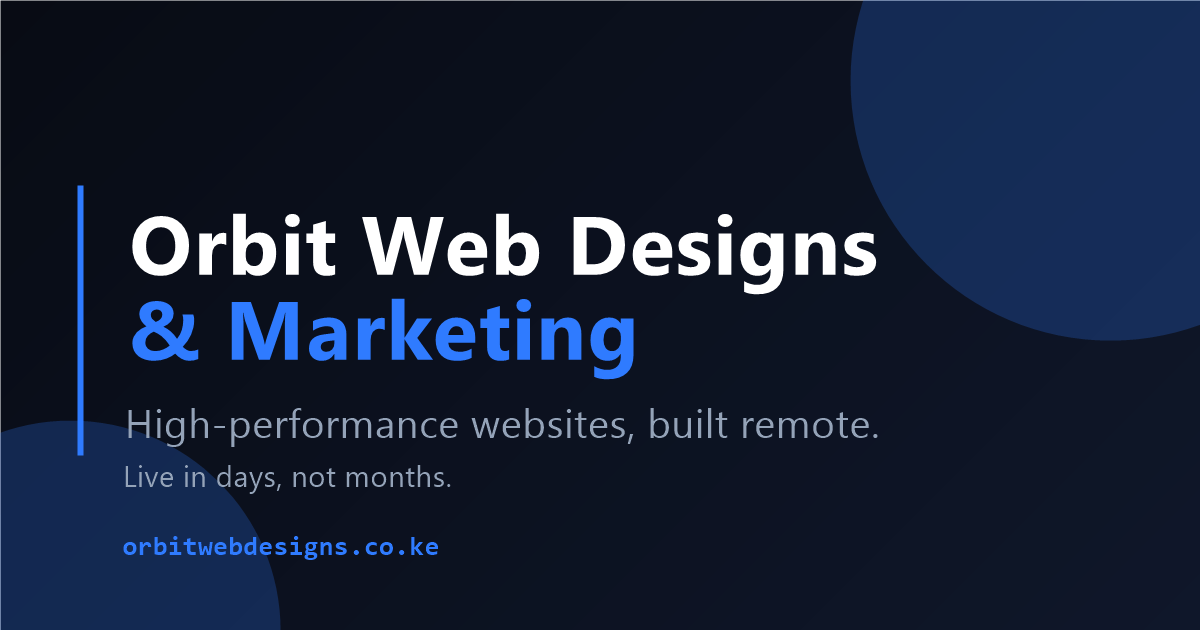
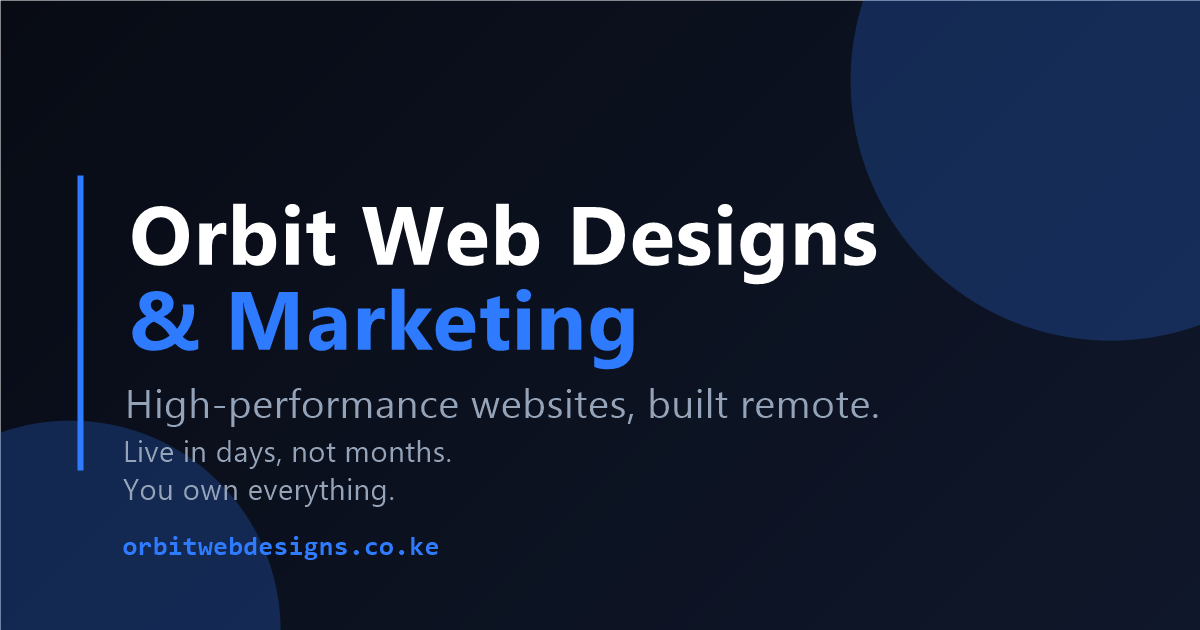
OG card: restore 'You own everything' line

Changed region(s): [[0.0925, 0.3016, 0.74, 0.6032], [0.0617, 0.6032, 0.74, 0.8143], [0.0617, 0.2714, 0.0925, 0.3016]]

diff --git a/money-app/FOUNDERS.md b/money-app/FOUNDERS.md
@@ -16,14 +16,14 @@ Env var names below are exact — copy/paste, never retype.
 
 **Blocked:** `PUBLIC_TURNSTILE_SITE_KEY` is missing from the build (secret IS set, verified Oct 6),
 so no widget renders: /contact is WhatsApp-failover only (no `leads` rows) and the footer newsletter
-POSTs with no token → API returns 400 (`api/supabase/submit.ts:130`).
+POSTs with no token → API returns 400 (`api/supabase/submit.ts:132-137`).
 
 1. Cloudflare dashboard → Turnstile → Sites → add site `orbitwebdesigns.co.ke` (or open the existing one) → copy the **Site key** (starts `0x`). *(Navigation is generic — confirm in provider dashboard.)*
 2. Vercel → project → **Settings → Environment Variables** → add `PUBLIC_TURNSTILE_SITE_KEY` = the `0x…` key, scoped **Production + Preview + Development** → Save.
    - Correcting drift: the name is `PUBLIC_TURNSTILE_SITE_KEY` (underscore before `KEY`), read at `Footer.astro:5`, `src/components/react/ContactForm.tsx:4`, `Comments.astro:56`.
    - Do **not** touch `TURNSTILE_SECRET_KEY` — already set in prod (dummy token → 403, not 503).
 3. Vercel → **Deployments → ⋯ → Redeploy** the latest production deployment. (Vite inlines the key at build; saving the var alone changes nothing.)
-4. Verify: view-source `https://orbitwebdesigns.co.ke/contact` → contains `0x` sitekey and the    `challenges.cloudflare.com/turnstile/v0/api.js` script (`Layout.astro:342-344`).
+4. Verify: view-source `https://orbitwebdesigns.co.ke/contact` → contains `0x` sitekey and the    `challenges.cloudflare.com/turnstile/v0/api.js` script (`src/layouts/Layout.astro:342-344` — moved from `src/components/` in `6ee984d`).
 
 **Done when:** /contact shows the Turnstile box and one test enquiry returns success (row in Supabase `leads`); footer newsletter Join shows "You're in — check your inbox" (API 200, not 400).
 **Rollback:** delete the var + redeploy → back to today's WhatsApp-failover state. No data risk.
